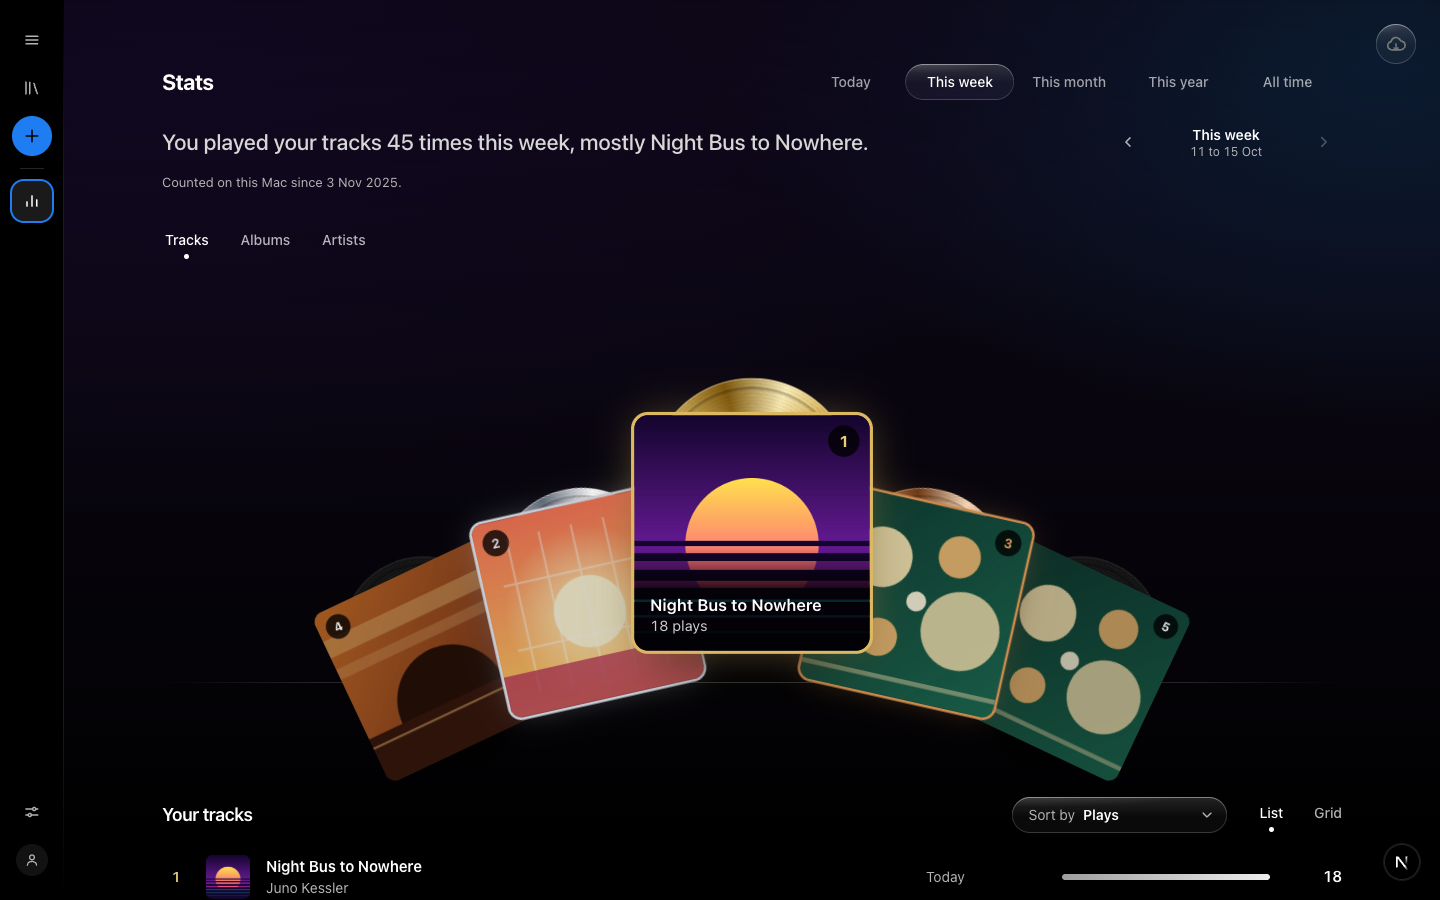
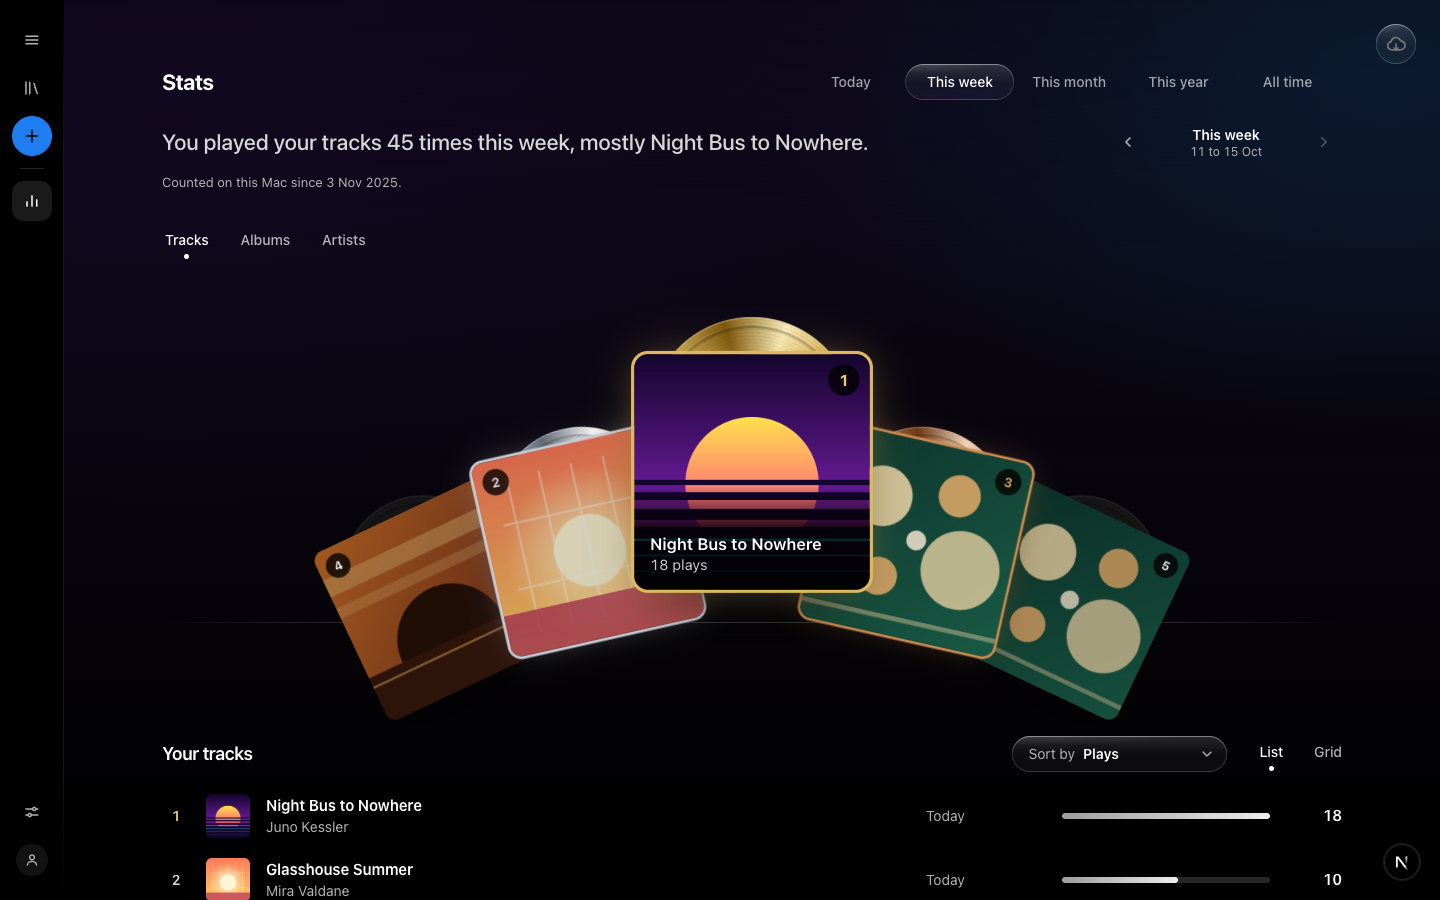
Stats page: the fan sits higher, less empty space above it (#145)
The page fan now reserves room above the sleeves only for a hover or focus lift, and the stage's top margin is trimmed. The brief opening beat rises into the space above.

Claude-Session: https://claude.ai/code/session_016wtvpvRFjMyGctvKw2v9pz

diff --git a/apps/web/src/components/stats/StatsView.tsx b/apps/web/src/components/stats/StatsView.tsx
@@ -173,7 +173,7 @@ export default function StatsView({
       {stats && items.length > 0 && (
         <>
           {/* Keyed so each tab or period change fans the sleeves out once, in answer to the click. */}
-          <div className="st-fan-stage mt-6" key={`fan-${tab}-${period.kind}-${period.back}`}>
+          <div className="st-fan-stage mt-3" key={`fan-${tab}-${period.kind}-${period.back}`}>
             <SleeveFan
               items={items.slice(0, FAN_MAX)}
               size="page"

diff --git a/apps/web/src/app/globals.css b/apps/web/src/app/globals.css
@@ -2074,7 +2074,10 @@ body {
   --fan-depth: 0.06;
   --fan-shade-base: 0.06;
   --fan-shade: 0.1;
-  height: calc(var(--w) * 2.25);
+  /* Room above the resting sleeves for a hover or focus lift only (the lifted sleeve, its popped size and its
+     record's peek, about 1.96 sleeves, plus 12px). The brief opening beat (record -55%) rises past the top of this box
+     into the space above; nothing clips it. */
+  height: calc(var(--w) * 1.96 + 12px);
 }
 .fan-list {
   margin: 0;
